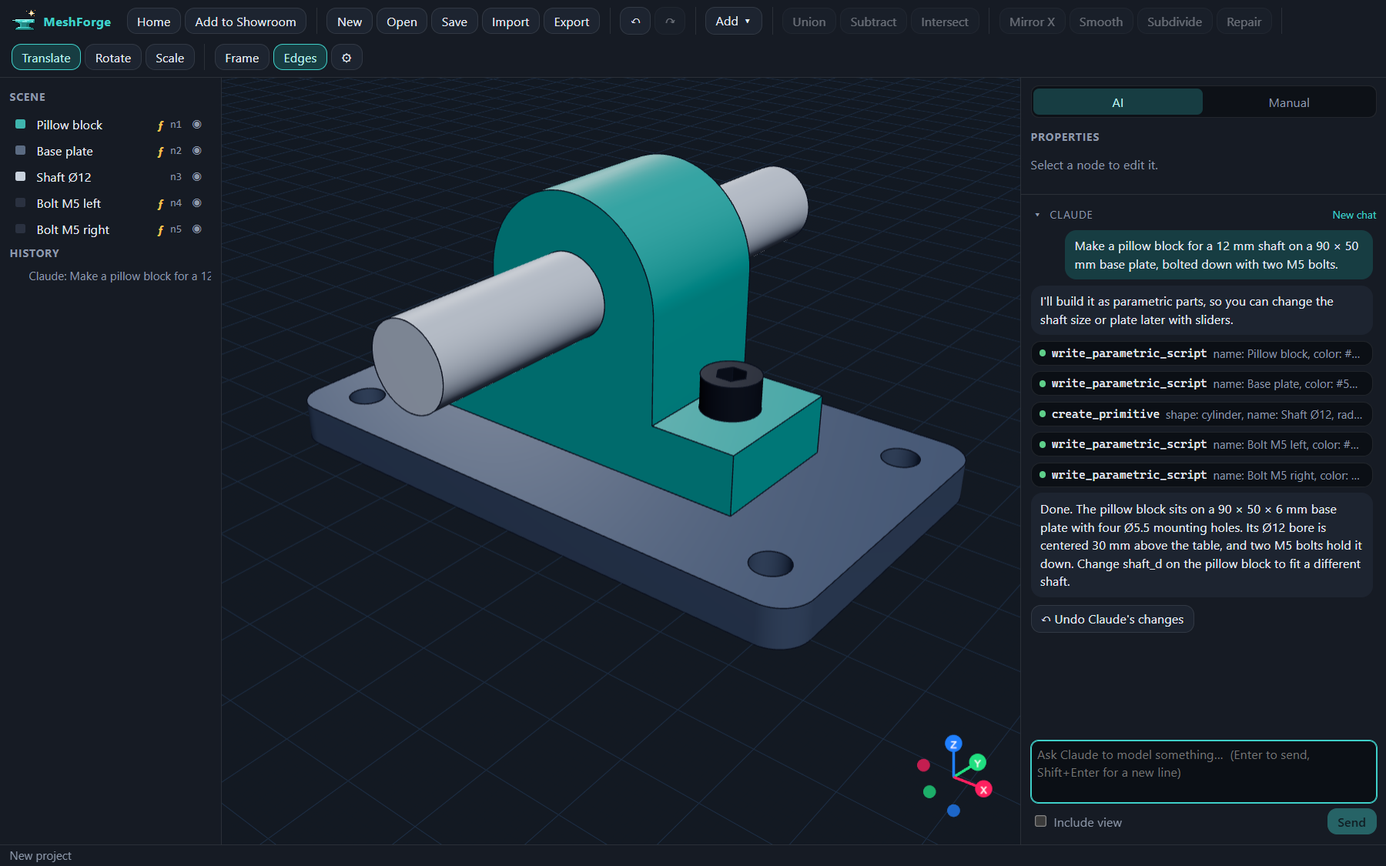
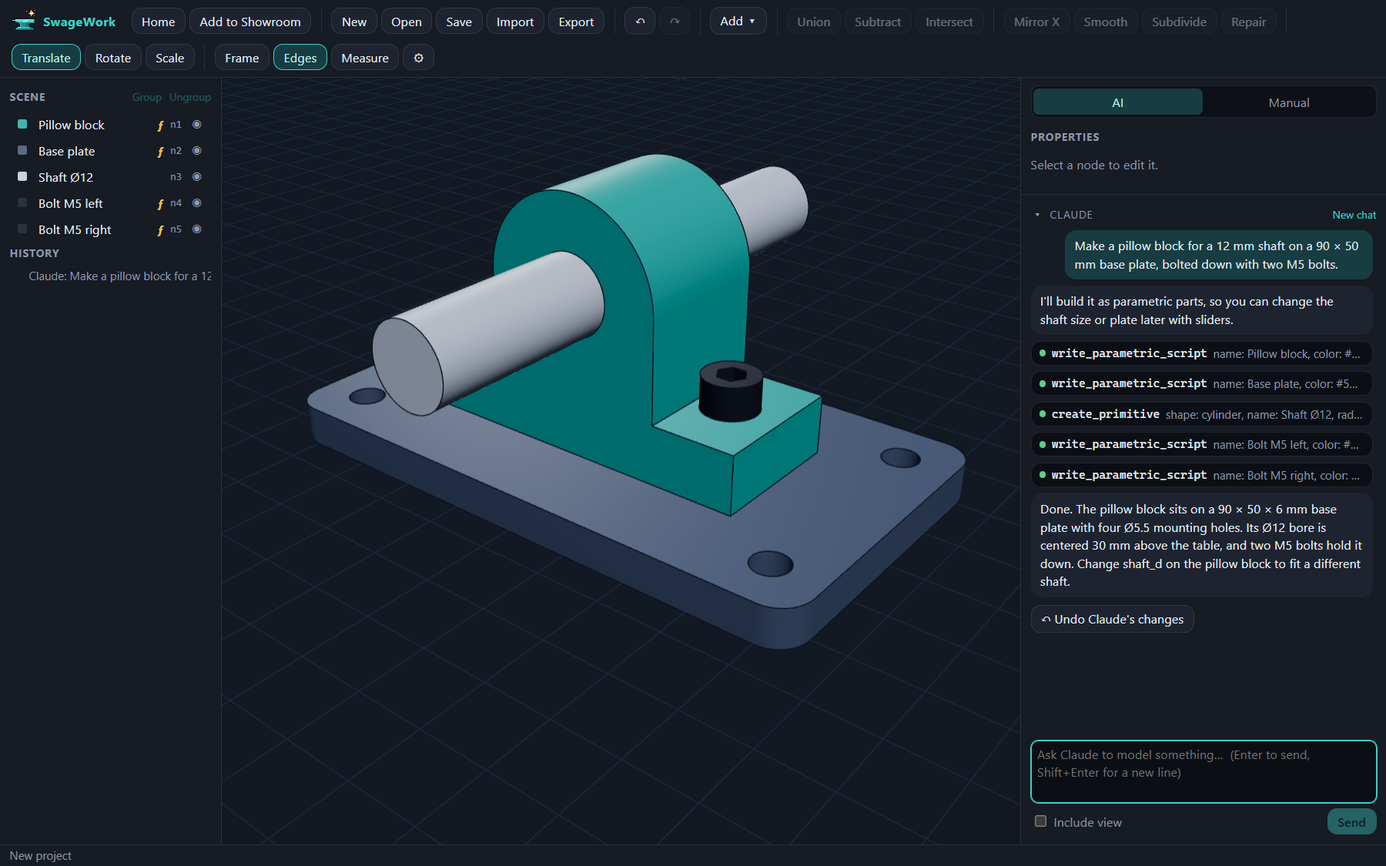
Update site

diff --git a/docs.html b/docs.html
@@ -3,8 +3,8 @@
 <head>
   <meta charset="utf-8">
   <meta name="viewport" content="width=device-width, initial-scale=1">
-  <title>MeshForge Docs</title>
-  <meta name="description" content="How to install MeshForge, connect an AI, build and edit parts, and manage your license.">
+  <title>SwageWork Docs</title>
+  <meta name="description" content="How to install SwageWork, connect an AI, build and edit parts, and manage your license.">
   <link rel="icon" href="img/logo.svg" type="image/svg+xml">
   <link rel="stylesheet" href="style.css">
 </head>
@@ -26,7 +26,7 @@
 
 <main class="page">
   <h1>Getting started</h1>
-  <p class="updated">For MeshForge 1.x on Windows 10 and 11 (64-bit).</p>
+  <p class="updated">For SwageWork 1.x on Windows 10 and 11 (64-bit).</p>
 
   <nav class="toc">
     <ol>
@@ -44,17 +44,17 @@
 
   <h2 id="install">1. Install</h2>
   <ol>
-    <li><a data-download href="#">Download the installer</a> (<code>MeshForge-Setup-<i>version</i>.exe</code>) and run it.</li>
-    <li>If Windows shows “Windows protected your PC”, click <b>More info</b>, then <b>Run anyway</b>. MeshForge isn't code-signed yet, so SmartScreen warns about it.</li>
-    <li>Accept the license agreement and pick a folder. MeshForge adds a desktop and Start menu shortcut.</li>
+    <li><a data-download href="#">Download the installer</a> (<code>SwageWork-Setup-<i>version</i>.exe</code>) and run it.</li>
+    <li>If Windows shows “Windows protected your PC”, click <b>More info</b>, then <b>Run anyway</b>. SwageWork isn't code-signed yet, so SmartScreen warns about it.</li>
+    <li>Accept the license agreement and pick a folder. SwageWork adds a desktop and Start menu shortcut.</li>
   </ol>
-  <p>Updates within 1.x download in the background and install the next time you restart MeshForge.</p>
+  <p>Updates within 1.x download in the background and install the next time you restart SwageWork.</p>
 
   <h2 id="connect">2. Connect an AI</h2>
-  <p>On first launch MeshForge opens <b>Connect an AI</b>. You can reopen it any time from the AI name in the chat panel, or from the AI menu. There are two ways to connect.</p>
+  <p>On first launch SwageWork opens <b>Connect an AI</b>. You can reopen it any time from the AI name in the chat panel, or from the AI menu. There are two ways to connect.</p>
 
-  <h3>Chat here in MeshForge</h3>
-  <p>You type in MeshForge's own chat panel. Choose a service, follow the three steps, and MeshForge tests the connection before saving it.</p>
+  <h3>Chat here in SwageWork</h3>
+  <p>You type in SwageWork's own chat panel. Choose a service, follow the three steps, and SwageWork tests the connection before saving it.</p>
   <table>
     <tr><th>Service</th><th>Cost</th><th>What you need</th></tr>
     <tr><td>Claude (Anthropic)</td><td>Pay as you go</td><td>An API key from console.anthropic.com</td></tr>
@@ -67,14 +67,14 @@
   <p>Keys are encrypted with Windows' own protection and stored only on your computer. A key is only ever sent to the company it belongs to.</p>
 
   <h3>Use an AI app I already have</h3>
-  <p>If you use <b>Claude Code</b>, <b>Claude Desktop</b>, <b>Codex</b>, <b>Gemini CLI</b>, <b>Cursor</b> or <b>VS Code</b>, MeshForge can set it up with one click. That app can then build parts in MeshForge using your existing plan. Claude Desktop and Gemini CLI work on their free plans.</p>
-  <div class="callout">MeshForge must be open while the other app uses it. Its edits appear live, show up in the chat panel, and each burst of edits is one undo step.</div>
+  <p>If you use <b>Claude Code</b>, <b>Claude Desktop</b>, <b>Codex</b>, <b>Gemini CLI</b>, <b>Cursor</b> or <b>VS Code</b>, SwageWork can set it up with one click. That app can then build parts in SwageWork using your existing plan. Claude Desktop and Gemini CLI work on their free plans.</p>
+  <div class="callout">SwageWork must be open while the other app uses it. Its edits appear live, show up in the chat panel, and each burst of edits is one undo step.</div>
 
   <h2 id="first-part">3. Your first part</h2>
   <p>On the home screen, click <b>Create</b>. Then describe what you need in the chat panel, with dimensions in millimetres:</p>
   <p class="callout">“Make a 60 × 40 × 5 mm mounting plate with four M4 holes, 5 mm from each corner.”</p>
   <ul>
-    <li>The AI builds the part with MeshForge's tools. Precise parts are made as <b>parametric scripts</b>, so their dimensions appear under <b>Parameters</b> when you select them. Change a number and the part rebuilds.</li>
+    <li>The AI builds the part with SwageWork's tools. Precise parts are made as <b>parametric scripts</b>, so their dimensions appear under <b>Parameters</b> when you select them. Change a number and the part rebuilds.</li>
     <li>Tick <b>Include view</b> to send the AI a picture of the viewport along with your message. The AI can also ask for renders of your model while it works.</li>
     <li>Everything one message changed is one undo step. <b>Undo [AI]'s changes</b> takes the whole turn back.</li>
     <li>The conversation is saved with the project. <b>New chat</b> starts a fresh one.</li>
@@ -111,11 +111,11 @@
 
   <h2 id="files">6. Saving, importing and exporting</h2>
   <ul>
-    <li><b>Autosave:</b> projects save themselves a moment after each change, named after their first part, in <code>Documents\Mesh-Forge\Renders</code>. <b>My Renders</b> on the home screen lists them with previews.</li>
+    <li><b>Autosave:</b> projects save themselves a moment after each change (while an AI is working, when its turn finishes), named after their first part, in <code>Documents\SwageWork\Renders</code>. <b>My Renders</b> on the home screen lists them with previews.</li>
     <li><b>Import</b> (<kbd>Ctrl</kbd>+<kbd>I</kbd>): STL, OBJ, GLB, glTF, PLY and 3MF. Meshes are welded and repaired so booleans work.</li>
     <li><b>Export</b> (<kbd>Ctrl</kbd>+<kbd>E</kbd>): STEP, STL, 3MF, OBJ, GLB or PLY, of the selection or the whole scene. Pick the format by its file type in the save dialog.</li>
     <li><b>STEP</b> is for CAD programs. Sketched parts (and joins or cuts made from them) become exact solids with true arcs and holes. Parts without a sketch, such as imported meshes, are written as faceted solids, and the status bar names them. The first STEP export takes a moment while the CAD engine (OpenCascade) loads.</li>
-    <li>Project files (<code>.mforge</code>) open in MeshForge when you double-click them. Projects opened from elsewhere are copied into Renders.</li>
+    <li>Project files (<code>.swage</code>) open in SwageWork when you double-click them. Projects opened from elsewhere are copied into Renders.</li>
   </ul>
 
   <h2 id="showroom">7. The Showroom</h2>
@@ -129,15 +129,15 @@
 
   <h2 id="license">8. Trial and license</h2>
   <ul>
-    <li>Everything works for <b>14 days</b>. After that MeshForge is read-only: you can open, view and export, but not edit.</li>
+    <li>Everything works for <b>14 days</b>. After that SwageWork is read-only: you can open, view and export, but not edit.</li>
     <li>After buying, you get a license key by email. Enter it in <b>Settings → License</b>. It works on up to 3 computers.</li>
-    <li>MeshForge re-checks the key about once a week and keeps working offline for up to 30 days. After that it is read-only until it can reach the license server again.</li>
+    <li>SwageWork re-checks the key about once a week and keeps working offline for up to 30 days. After that it is read-only until it can reach the license server again.</li>
     <li>To move to a new computer, click <b>Deactivate</b> on the old one first.</li>
   </ul>
 
   <h2 id="help">9. Troubleshooting</h2>
-  <h3>The AI app says MeshForge isn't available</h3>
-  <p>Open MeshForge, then try again. If you moved or reinstalled MeshForge, open Connect an AI → Use an AI app I already have, and click <b>Fix</b> next to the app.</p>
+  <h3>The AI app says SwageWork isn't available</h3>
+  <p>Open SwageWork, then try again. If you moved or reinstalled SwageWork, open Connect an AI → Use an AI app I already have, and click <b>Fix</b> next to the app.</p>
   <h3>“The API key was rejected”</h3>
   <p>Create a new key on the AI company's website and use <b>Use a different key</b>. For Claude and ChatGPT, check that the account has credit.</p>
   <h3>A local model doesn't build anything</h3>
@@ -156,7 +156,7 @@
       <a href="privacy.html">Privacy</a>
       <a href="refund.html">Refunds</a>
     </nav>
-    <p class="fine">Claude, ChatGPT, Gemini and the other names mentioned are trademarks of their owners. MeshForge is an independent product, not affiliated with or endorsed by Anthropic, OpenAI, Google or the other AI companies listed.</p>
+    <p class="fine">Claude, ChatGPT, Gemini and the other names mentioned are trademarks of their owners. SwageWork is an independent product, not affiliated with or endorsed by Anthropic, OpenAI, Google or the other AI companies listed.</p>
   </div>
 </footer>
 <!-- /footer -->

diff --git a/index.html b/index.html
@@ -3,9 +3,9 @@
 <head>
   <meta charset="utf-8">
   <meta name="viewport" content="width=device-width, initial-scale=1">
-  <title>MeshForge: 3D modeling with AI</title>
-  <meta name="description" content="MeshForge is a Windows 3D modeling app where AI builds and edits your parts. Use Claude, ChatGPT, Gemini, a free local model, or the AI app you already have. One-time purchase.">
-  <meta property="og:title" content="MeshForge: 3D modeling with AI">
+  <title>SwageWork: 3D modeling with AI</title>
+  <meta name="description" content="SwageWork is a Windows 3D modeling app where AI builds and edits your parts. Use Claude, ChatGPT, Gemini, a free local model, or the AI app you already have. One-time purchase.">
+  <meta property="og:title" content="SwageWork: 3D modeling with AI">
   <meta property="og:description" content="Describe a part, watch it appear, tweak it with sliders, export it for printing or CAD.">
   <meta property="og:image" content="img/editor.png">
   <link rel="icon" href="img/logo.svg" type="image/svg+xml">
@@ -33,7 +33,7 @@
       <span class="eyebrow">For Windows · 14-day free trial</span>
       <h1>Describe a part.<br>Watch it appear.</h1>
       <p class="lede">
-        MeshForge is a 3D modeling app where an AI builds and edits your parts while you watch.
+        SwageWork is a 3D modeling app where an AI builds and edits your parts while you watch.
         Every dimension stays editable, and the result exports straight to your printer or CAD tool.
       </p>
       <div class="ctas">
@@ -42,7 +42,7 @@
       </div>
       <p class="note muted small">Works with Claude, ChatGPT, Gemini, free local models, and AI apps you already use.</p>
       <img class="shot" src="img/editor.png" width="1800" height="1125"
-        alt="MeshForge editor: the chat panel shows Claude building a pillow block, base plate, shaft and bolts, which appear in the 3D viewport.">
+        alt="SwageWork editor: the chat panel shows Claude building a pillow block, base plate, shaft and bolts, which appear in the 3D viewport.">
     </div>
   </section>
 
@@ -55,11 +55,11 @@
       <div class="steps">
         <div class="step">
           <h3>Connect an AI</h3>
-          <p>Paste a key from Claude, ChatGPT or Gemini, run a free model on your own computer, or let MeshForge set up Claude Code, Claude Desktop, Codex, Cursor or VS Code for you.</p>
+          <p>Paste a key from Claude, ChatGPT or Gemini, run a free model on your own computer, or let SwageWork set up Claude Code, Claude Desktop, Codex, Cursor or VS Code for you.</p>
         </div>
         <div class="step">
           <h3>Describe what you need</h3>
-          <p>“A pillow block for a 12 mm shaft on a 90 × 50 mm plate.” The AI builds it with MeshForge's modeling tools, and each request is one undo step.</p>
+          <p>“A pillow block for a 12 mm shaft on a 90 × 50 mm plate.” The AI builds it with SwageWork's modeling tools, and each request is one undo step.</p>
         </div>
         <div class="step">
           <h3>Tweak and export</h3>
@@ -78,7 +78,7 @@
           <ul class="ticks">
             <li>Booleans, mirrors, arrays, extrusions, rounded profiles and hole patterns</li>
             <li>Smooth, subdivide, decimate, remesh and repair for organic shapes and scans</li>
-            <li>Watertight output that's ready for slicing</li>
+            <li>Solid parts ready for slicing, and imported meshes repaired and checked for holes</li>
           </ul>
         </div>
         <img src="img/params.png" width="1800" height="1125" loading="lazy" alt="The pillow block selected, with its shaft diameter, height and foot dimensions editable in the Properties panel.">
@@ -135,7 +135,7 @@
       <div class="grid">
         <div class="card"><div class="icon">✏</div><h3>Manual mode</h3><p>Sketch lines, arcs, circles and polygons on any plane or face, with typed dimensions and snapping. Extrude or revolve, then join, cut or intersect.</p></div>
         <div class="card"><div class="icon">📏</div><h3>Measure and organise</h3><p>Measure distances, angles and hole diameters right on the model. Group parts in the scene tree and move them as one.</p></div>
-        <div class="card"><div class="icon">↶</div><h3>Safe to experiment</h3><p>Each AI turn is a single undo step, and “Undo Claude's changes” takes the whole turn back. Projects save themselves after every change.</p></div>
+        <div class="card"><div class="icon">↶</div><h3>Safe to experiment</h3><p>Each AI turn is a single undo step, and “Undo Claude's changes” takes the whole turn back. Projects save themselves moments after each change, and when an AI's turn finishes.</p></div>
         <div class="card"><div class="icon">📦</div><h3>Import anything</h3><p>Open STL, OBJ, GLB, glTF, PLY and 3MF. Broken meshes are repaired automatically.</p></div>
         <div class="card"><div class="icon">🔒</div><h3>Private</h3><p>No telemetry. Keys are encrypted on your computer, and your prompts go only to the AI you picked.</p></div>
         <div class="card"><div class="icon">🔄</div><h3>Updates included</h3><p>Every 1.x update installs in the background. You buy once and keep the version you paid for.</p></div>
@@ -151,7 +151,7 @@
       </div>
       <div class="price-card">
         <span class="eyebrow">Launch price</span>
-        <h3>MeshForge 1.x</h3>
+        <h3>SwageWork 1.x</h3>
         <div class="price">$29<s>$49</s></div>
         <p class="muted small">One-time payment. Local VAT may be added at checkout.</p>
         <ul class="ticks">
@@ -160,7 +160,7 @@
           <li>Personal and commercial work</li>
           <li>14-day money-back guarantee</li>
         </ul>
-        <a class="btn primary" data-buy href="#">Buy MeshForge</a>
+        <a class="btn primary" data-buy href="#">Buy SwageWork</a>
         <p class="muted small" style="margin-top:14px">
           AI usage is billed by the AI company you connect, or free with Gemini's free tier or a local model.
           Payment is handled by Lemon Squeezy.
@@ -175,11 +175,11 @@
       <div class="faq">
         <details>
           <summary>Do I need to pay for an AI as well?</summary>
-          <p>Not necessarily. Gemini has a free tier, OpenRouter has free models, and Ollama or LM Studio run models on your own computer for free. If you already pay for Claude or ChatGPT, MeshForge can use that through Claude Code, Claude Desktop or Codex. With an API key you pay the AI company directly for what you use.</p>
+          <p>Not necessarily. Gemini has a free tier, OpenRouter has free models, and Ollama or LM Studio run models on your own computer for free. If you already pay for Claude or ChatGPT, SwageWork can use that through Claude Code, Claude Desktop or Codex. With an API key you pay the AI company directly for what you use.</p>
         </details>
         <details>
           <summary>What happens when the trial ends?</summary>
-          <p>MeshForge becomes read-only. You can still open, view and export every project, so your work is never locked away. Enter a license key in Settings to edit again.</p>
+          <p>SwageWork becomes read-only. You can still open, view and export every project, so your work is never locked away. Enter a license key in Settings to edit again.</p>
         </details>
         <details>
           <summary>Are updates included?</summary>
@@ -187,7 +187,7 @@
         </details>
         <details>
           <summary>Is my work sent anywhere?</summary>
-          <p>MeshForge has no telemetry and never sends your projects to us. When you chat, your message and a short description of the scene go to the AI you picked. The app also contacts Lemon Squeezy to check your license and GitHub to check for updates. Details are in the <a href="privacy.html">privacy policy</a>.</p>
+          <p>SwageWork has no telemetry and never sends your projects to us. When you chat, your message and a short description of the scene go to the AI you picked. The app also contacts Lemon Squeezy to check your license and GitHub to check for updates. Details are in the <a href="privacy.html">privacy policy</a>.</p>
         </details>
         <details>
           <summary>Windows says “Windows protected your PC”. Is it safe?</summary>
@@ -224,7 +224,7 @@
       <a href="privacy.html">Privacy</a>
       <a href="refund.html">Refunds</a>
     </nav>
-    <p class="fine">Claude, ChatGPT, Gemini and the other names mentioned are trademarks of their owners. MeshForge is an independent product, not affiliated with or endorsed by Anthropic, OpenAI, Google or the other AI companies listed.</p>
+    <p class="fine">Claude, ChatGPT, Gemini and the other names mentioned are trademarks of their owners. SwageWork is an independent product, not affiliated with or endorsed by Anthropic, OpenAI, Google or the other AI companies listed.</p>
   </div>
 </footer>
 <!-- /footer -->

diff --git a/privacy.html b/privacy.html
@@ -3,8 +3,8 @@
 <head>
   <meta charset="utf-8">
   <meta name="viewport" content="width=device-width, initial-scale=1">
-  <title>MeshForge Privacy</title>
-  <meta name="description" content="What data MeshForge and this website handle, and why.">
+  <title>SwageWork Privacy</title>
+  <meta name="description" content="What data SwageWork and this website handle, and why.">
   <link rel="icon" href="img/logo.svg" type="image/svg+xml">
   <link rel="stylesheet" href="style.css">
 </head>
@@ -28,12 +28,12 @@
   <h1>Privacy policy</h1>
   <p class="updated">Last updated 30 October 2026.</p>
 
-  <p class="callout"><b>In short:</b> MeshForge has no telemetry and never sends your projects to us. What you type to an AI goes only to the AI service you chose. We only see your email and order details when you buy.</p>
+  <p class="callout"><b>In short:</b> SwageWork has no telemetry and never sends your projects to us. What you type to an AI goes only to the AI service you chose. We only see your email and order details when you buy.</p>
 
   <h2>Who we are</h2>
-  <p>MeshForge is made by Boris Enev, based in the Netherlands. For anything about your data, email <a href="mailto:borisenev01@gmail.com">borisenev01@gmail.com</a>.</p>
+  <p>SwageWork is made by Boris Enev, based in the Netherlands. For anything about your data, email <a href="mailto:borisenev01@gmail.com">borisenev01@gmail.com</a>.</p>
 
-  <h2>The MeshForge app</h2>
+  <h2>The SwageWork app</h2>
   <h3>What stays on your computer</h3>
   <p>Your projects, settings and chat history are stored only on your computer. API keys and your license key are encrypted with Windows' own data protection.</p>
 
@@ -58,7 +58,7 @@
   </table>
   <p>The app has no analytics, crash reporting or advertising, and it doesn't send us anything.</p>
 
-  <h2>Buying MeshForge</h2>
+  <h2>Buying SwageWork</h2>
   <p>Lemon Squeezy is the merchant of record and processes your order, payment and billing details under its <a href="https://www.lemonsqueezy.com/privacy">privacy policy</a>. We receive your name, email address, country and order details, so we can send your license, help you and handle refunds. We keep order records for 7 years, as Dutch tax law requires.</p>
 
   <h2>This website</h2>
@@ -72,7 +72,7 @@
 
   <h2>Your rights</h2>
   <p>Under the GDPR you can ask to see, correct, delete or receive a copy of the personal data we hold about you, and object to or restrict how we use it. Email us and we'll answer within a month. You can also complain to the Dutch data protection authority, the <a href="https://autoriteitpersoonsgegevens.nl">Autoriteit Persoonsgegevens</a>, or the authority where you live.</p>
-  <p>We rely on these legal bases: performing our contract with you (licenses, updates, support), legal obligations (tax records), and our legitimate interest in keeping MeshForge secure and working.</p>
+  <p>We rely on these legal bases: performing our contract with you (licenses, updates, support), legal obligations (tax records), and our legitimate interest in keeping SwageWork secure and working.</p>
 
   <h2>Changes</h2>
   <p>If this policy changes, the new version will be posted here with a new date.</p>
@@ -88,7 +88,7 @@
       <a href="privacy.html">Privacy</a>
       <a href="refund.html">Refunds</a>
     </nav>
-    <p class="fine">Claude, ChatGPT, Gemini and the other names mentioned are trademarks of their owners. MeshForge is an independent product, not affiliated with or endorsed by Anthropic, OpenAI, Google or the other AI companies listed.</p>
+    <p class="fine">Claude, ChatGPT, Gemini and the other names mentioned are trademarks of their owners. SwageWork is an independent product, not affiliated with or endorsed by Anthropic, OpenAI, Google or the other AI companies listed.</p>
   </div>
 </footer>
 <!-- /footer -->

diff --git a/terms.html b/terms.html
@@ -3,8 +3,8 @@
 <head>
   <meta charset="utf-8">
   <meta name="viewport" content="width=device-width, initial-scale=1">
-  <title>MeshForge Terms</title>
-  <meta name="description" content="The MeshForge license agreement and terms of sale.">
+  <title>SwageWork Terms</title>
+  <meta name="description" content="The SwageWork license agreement and terms of sale.">
   <link rel="icon" href="img/logo.svg" type="image/svg+xml">
   <link rel="stylesheet" href="style.css">
 </head>
@@ -28,20 +28,20 @@
   <h1>Terms</h1>
   <p class="updated">Last updated 30 October 2026.</p>
 
-  <h2>Buying MeshForge</h2>
+  <h2>Buying SwageWork</h2>
   <ul>
     <li>Orders are processed by <b>Lemon Squeezy</b> (Link, LLC), which acts as the merchant of record. Lemon Squeezy is the seller of the license, handles payment, invoicing and sales tax or VAT, and its <a href="https://www.lemonsqueezy.com/buyer-terms">buyer terms</a> apply to the purchase.</li>
-    <li>You pay once for a license to MeshForge 1.x. The price shown at checkout is what you pay. Local VAT may be added depending on where you live.</li>
+    <li>You pay once for a license to SwageWork 1.x. The price shown at checkout is what you pay. Local VAT may be added depending on where you live.</li>
     <li>Your license key arrives by email straight after payment.</li>
     <li>You can get a refund within 14 days, as described in the <a href="refund.html">refund policy</a>. That promise applies whatever the buyer terms say about refunds or withdrawal.</li>
-    <li>Using MeshForge is governed by the license agreement below, which the installer also shows.</li>
+    <li>Using SwageWork is governed by the license agreement below, which the installer also shows.</li>
   </ul>
 
   <h2>End User License Agreement</h2>
   <div class="eula">
 <!-- eula -->
 <p>Version 1.1</p>
-<p>This End User License Agreement ("Agreement") is between you and Boris Enev ("we", "us"), the maker of MeshForge (the "Software"). By installing or using the Software you agree to this Agreement. If you do not agree, do not install or use the Software.</p>
+<p>This End User License Agreement ("Agreement") is between you and Boris Enev ("we", "us"), the maker of SwageWork (the "Software"). By installing or using the Software you agree to this Agreement. If you do not agree, do not install or use the Software.</p>
 <h3>1. TRIAL</h3>
 <p>You may use the Software free of charge for 14 days to evaluate it. After the trial, the Software becomes read-only until you activate a license key: you can still open, view and export your projects.</p>
 <h3>2. LICENSE</h3>
@@ -87,7 +87,7 @@
       <a href="privacy.html">Privacy</a>
       <a href="refund.html">Refunds</a>
     </nav>
-    <p class="fine">Claude, ChatGPT, Gemini and the other names mentioned are trademarks of their owners. MeshForge is an independent product, not affiliated with or endorsed by Anthropic, OpenAI, Google or the other AI companies listed.</p>
+    <p class="fine">Claude, ChatGPT, Gemini and the other names mentioned are trademarks of their owners. SwageWork is an independent product, not affiliated with or endorsed by Anthropic, OpenAI, Google or the other AI companies listed.</p>
   </div>
 </footer>
 <!-- /footer -->

diff --git a/refund.html b/refund.html
@@ -3,8 +3,8 @@
 <head>
   <meta charset="utf-8">
   <meta name="viewport" content="width=device-width, initial-scale=1">
-  <title>MeshForge Refunds</title>
-  <meta name="description" content="MeshForge's 14-day money-back guarantee.">
+  <title>SwageWork Refunds</title>
+  <meta name="description" content="SwageWork's 14-day money-back guarantee.">
   <link rel="icon" href="img/logo.svg" type="image/svg+xml">
   <link rel="stylesheet" href="style.css">
 </head>
@@ -28,7 +28,7 @@
   <h1>Refund policy</h1>
   <p class="updated">Last updated 27 October 2026.</p>
 
-  <p class="callout"><b>14-day money-back guarantee.</b> If MeshForge isn't right for you, ask within 14 days of buying and you'll get a full refund. You don't need to give a reason.</p>
+  <p class="callout"><b>14-day money-back guarantee.</b> If SwageWork isn't right for you, ask within 14 days of buying and you'll get a full refund. You don't need to give a reason.</p>
 
   <h2>How to ask</h2>
   <ul>
@@ -38,13 +38,13 @@
   <p>Refunds go back to the original payment method through Lemon Squeezy, usually within 5–10 business days depending on your bank.</p>
 
   <h2>What happens to the license</h2>
-  <p>A refunded license key is disabled. MeshForge then goes back to read-only mode: your projects still open, view and export, but you can't edit them.</p>
+  <p>A refunded license key is disabled. SwageWork then goes back to read-only mode: your projects still open, view and export, but you can't edit them.</p>
 
   <h2>After 14 days</h2>
-  <p>We don't normally refund after 14 days. If something is badly wrong, for example MeshForge won't run on your computer and we can't fix it, email us and we'll work it out. Nothing here limits your rights under consumer law.</p>
+  <p>We don't normally refund after 14 days. If something is badly wrong, for example SwageWork won't run on your computer and we can't fix it, email us and we'll work it out. Nothing here limits your rights under consumer law.</p>
 
   <h2>Try before you buy</h2>
-  <p>Every feature is free for 14 days before you pay anything, so you can check MeshForge works for you first.</p>
+  <p>Every feature is free for 14 days before you pay anything, so you can check SwageWork works for you first.</p>
 </main>
 
 <!-- footer -->
@@ -57,7 +57,7 @@
       <a href="privacy.html">Privacy</a>
       <a href="refund.html">Refunds</a>
     </nav>
-    <p class="fine">Claude, ChatGPT, Gemini and the other names mentioned are trademarks of their owners. MeshForge is an independent product, not affiliated with or endorsed by Anthropic, OpenAI, Google or the other AI companies listed.</p>
+    <p class="fine">Claude, ChatGPT, Gemini and the other names mentioned are trademarks of their owners. SwageWork is an independent product, not affiliated with or endorsed by Anthropic, OpenAI, Google or the other AI companies listed.</p>
   </div>
 </footer>
 <!-- /footer -->

diff --git a/site.js b/site.js
@@ -1,17 +1,17 @@
 // Links that change at launch live here, so the pages never need editing for them.
-const MESHFORGE = {
-  // Lemon Squeezy checkout link for "MeshForge 1.x" (same as buyUrl in src/shared/license.ts).
+const SWAGEWORK = {
+  // Lemon Squeezy checkout link for "SwageWork 1.x" (same as buyUrl in src/shared/license.ts).
   // While empty, Buy buttons say "Coming soon".
   buyUrl: '',
-  downloadUrl: 'https://github.com/borisenev01-dev/meshforge-releases/releases/latest'
+  downloadUrl: 'https://github.com/borisenev01-dev/swagework-releases/releases/latest'
 }
 
-for (const a of document.querySelectorAll('[data-download]')) a.href = MESHFORGE.downloadUrl
+for (const a of document.querySelectorAll('[data-download]')) a.href = SWAGEWORK.downloadUrl
 
 const buy = document.querySelectorAll('[data-buy]')
-if (MESHFORGE.buyUrl) {
+if (SWAGEWORK.buyUrl) {
   for (const a of buy) {
-    a.href = MESHFORGE.buyUrl // a plain link: no third-party script runs until someone chooses to buy
+    a.href = SWAGEWORK.buyUrl // a plain link: no third-party script runs until someone chooses to buy
   }
 } else {
   for (const a of buy) {

diff --git a/style.css b/style.css
@@ -1,4 +1,4 @@
-/* MeshForge website: the app's "Floating glass" look (deep blue-black, teal accent, glass panels). */
+/* SwageWork website: the app's "Floating glass" look (deep blue-black, teal accent, glass panels). */
 :root {
   --bg: #0d1117;
   --bg-2: #0b0f15;
